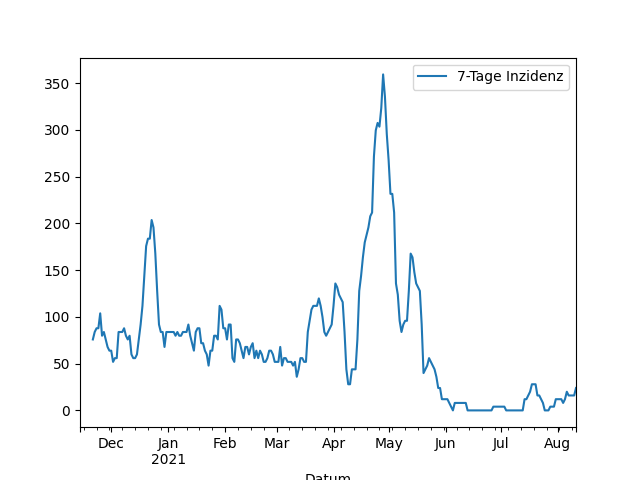
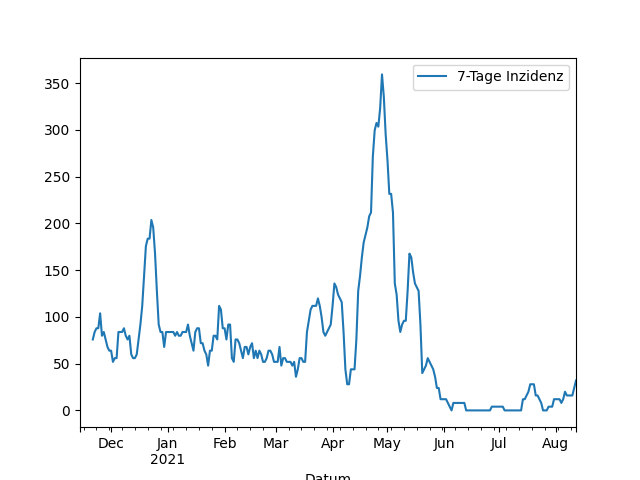
Update images

diff --git a/_includes/aktuelle_inzidenz.md b/_includes/aktuelle_inzidenz.md
@@ -1,1 +1,1 @@
-24,0
+31,9
